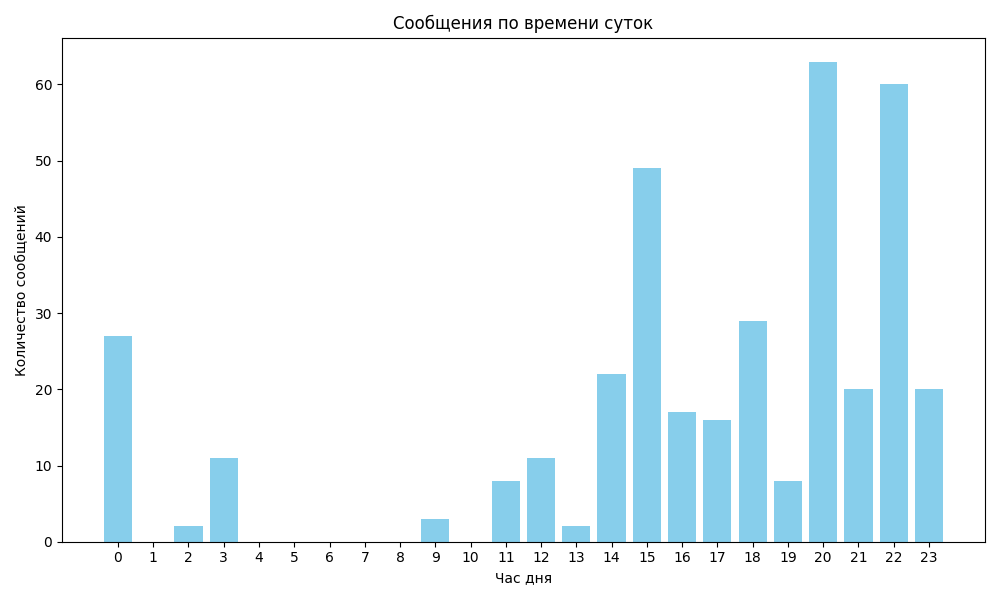
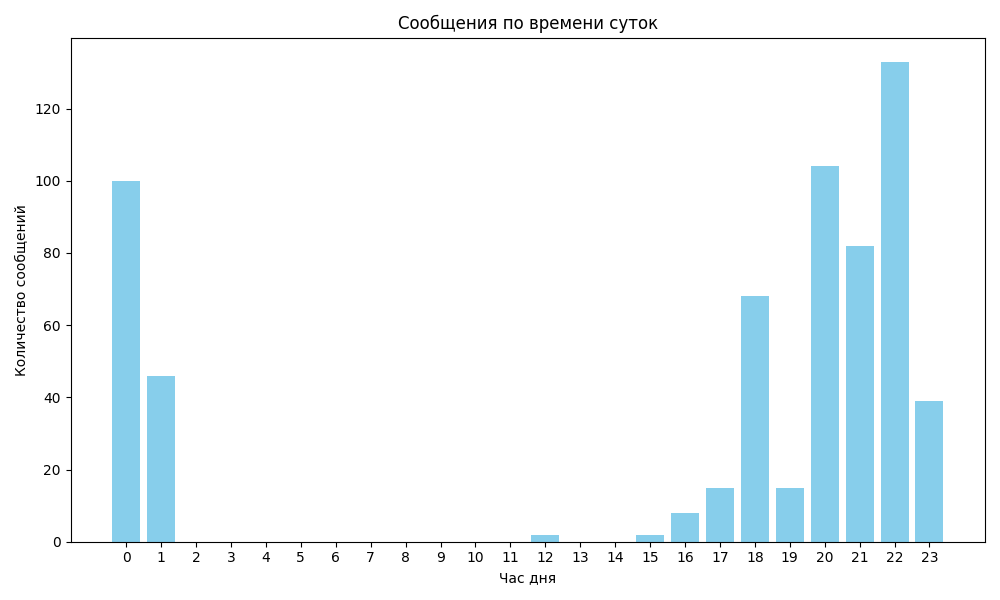
график распределения сообщений

diff --git a/MessagesByTimeGraph.py b/MessagesByTimeGraph.py
@@ -1,0 +1,43 @@
+import matplotlib.pyplot as plt
+import pandas as pd
+from datetime import datetime
+import pytz
+
+# Часовой пояс для Екатеринбурга
+tz = pytz.timezone('Asia/Yekaterinburg')
+
+# Функция для извлечения времени из метки и преобразования в локальное время
+def convert_timestamp_to_local(timestamp):
+    utc_time = datetime.utcfromtimestamp(timestamp)  # Преобразуем UNIX-время в UTC
+    utc_time = pytz.utc.localize(utc_time)  # Преобразуем в объект времени UTC
+    local_time = utc_time.astimezone(tz)  # Конвертируем в локальное время (Екатеринбург)
+    return local_time
+
+# Пример использования
+def extract_hour_from_messages(messages):
+    hours = []
+    for message in messages:
+        timestamp = message['date']
+        message_time_local = convert_timestamp_to_local(timestamp)
+        hours.append(message_time_local.hour)
+    return hours
+
+
+# Функция для создания графика
+def plot_messages_by_time(messages):
+    # Извлекаем часы из сообщений
+    hours = extract_hour_from_messages(messages)
+
+    # Считаем количество сообщений по каждому часу
+    hourly_counts = pd.Series(hours).value_counts().sort_index()
+
+    # Строим график
+    plt.figure(figsize=(10, 6))
+    plt.bar(hourly_counts.index, hourly_counts.values, color='skyblue')
+    plt.xlabel('Час дня')
+    plt.ylabel('Количество сообщений')
+    plt.title('Сообщения по времени суток')
+    plt.xticks(range(24))  # Отображаем все часы
+    plt.tight_layout()
+    plt.savefig('messages_by_time.png')
+    plt.close()

diff --git a/VKInteraction.py b/VKInteraction.py
@@ -2,6 +2,8 @@ import os
 import time
 import vk_api
 
+from SendGraphsUtils import send_graphic
+
 # Чтобы получить токен VK, зайди https://vkhost.github.io/, выбери VK Admin, далее следуй инструкции на сайте
 # После зайди в системные переменные, добавь новую переменную с названием VK_TOKEN и значением - твоим токеном, перезагрузи среду разработки.
 token = os.getenv("VK_TOKEN")
@@ -66,3 +68,6 @@ def send_report(peer_id):
     time.sleep(1)
 
     vk.messages.send(peer_id=peer_id, message="🏆 Самый часто встречающийся за день стикер", attachment=sticker_attachment, random_id=int(time.time()))
+
+    send_graphic(vk, 'messages_by_time.png', peer_id)  # Используем импортированную функцию
+    time.sleep(1)

diff --git a/ReportPrepare.py b/ReportPrepare.py
@@ -1,3 +1,4 @@
+from MessagesByTimeGraph import plot_messages_by_time
 from WordsTop import create_frequency_dict_lemma
 from VKInteraction import get_user_name, PEER_ID, get_messages_for_day
 from TimeUtils import get_unix_time_range_previous_day
@@ -88,6 +89,9 @@ def report_message_prepare():
     )
 
     top_words = "\n".join(f"{medals[i]} {line}" for i, line in enumerate(top_words.splitlines()))
+
+    plot_messages_by_time(messages)
+
     # Удаляем прошедший контекст рандомным вопросом
     get_answer("Какую еду любят в японии?")
 

diff --git a/SendGraphsUtils.py b/SendGraphsUtils.py
@@ -1,0 +1,18 @@
+import time
+import vk_api
+
+
+def send_graphic(vk, attachment_path, peer_id):
+    """Загружает и отправляет график в VK"""
+    upload = vk_api.VkUpload(vk)
+
+    # Загрузка изображения
+    photo = upload.photo_messages(attachment_path)[0]
+    attachment = f"photo{photo['owner_id']}_{photo['id']}"
+
+    # Отправка изображения в беседу
+    vk.messages.send(
+        peer_id=peer_id,
+        attachment=attachment,
+        random_id=int(time.time())
+    )
